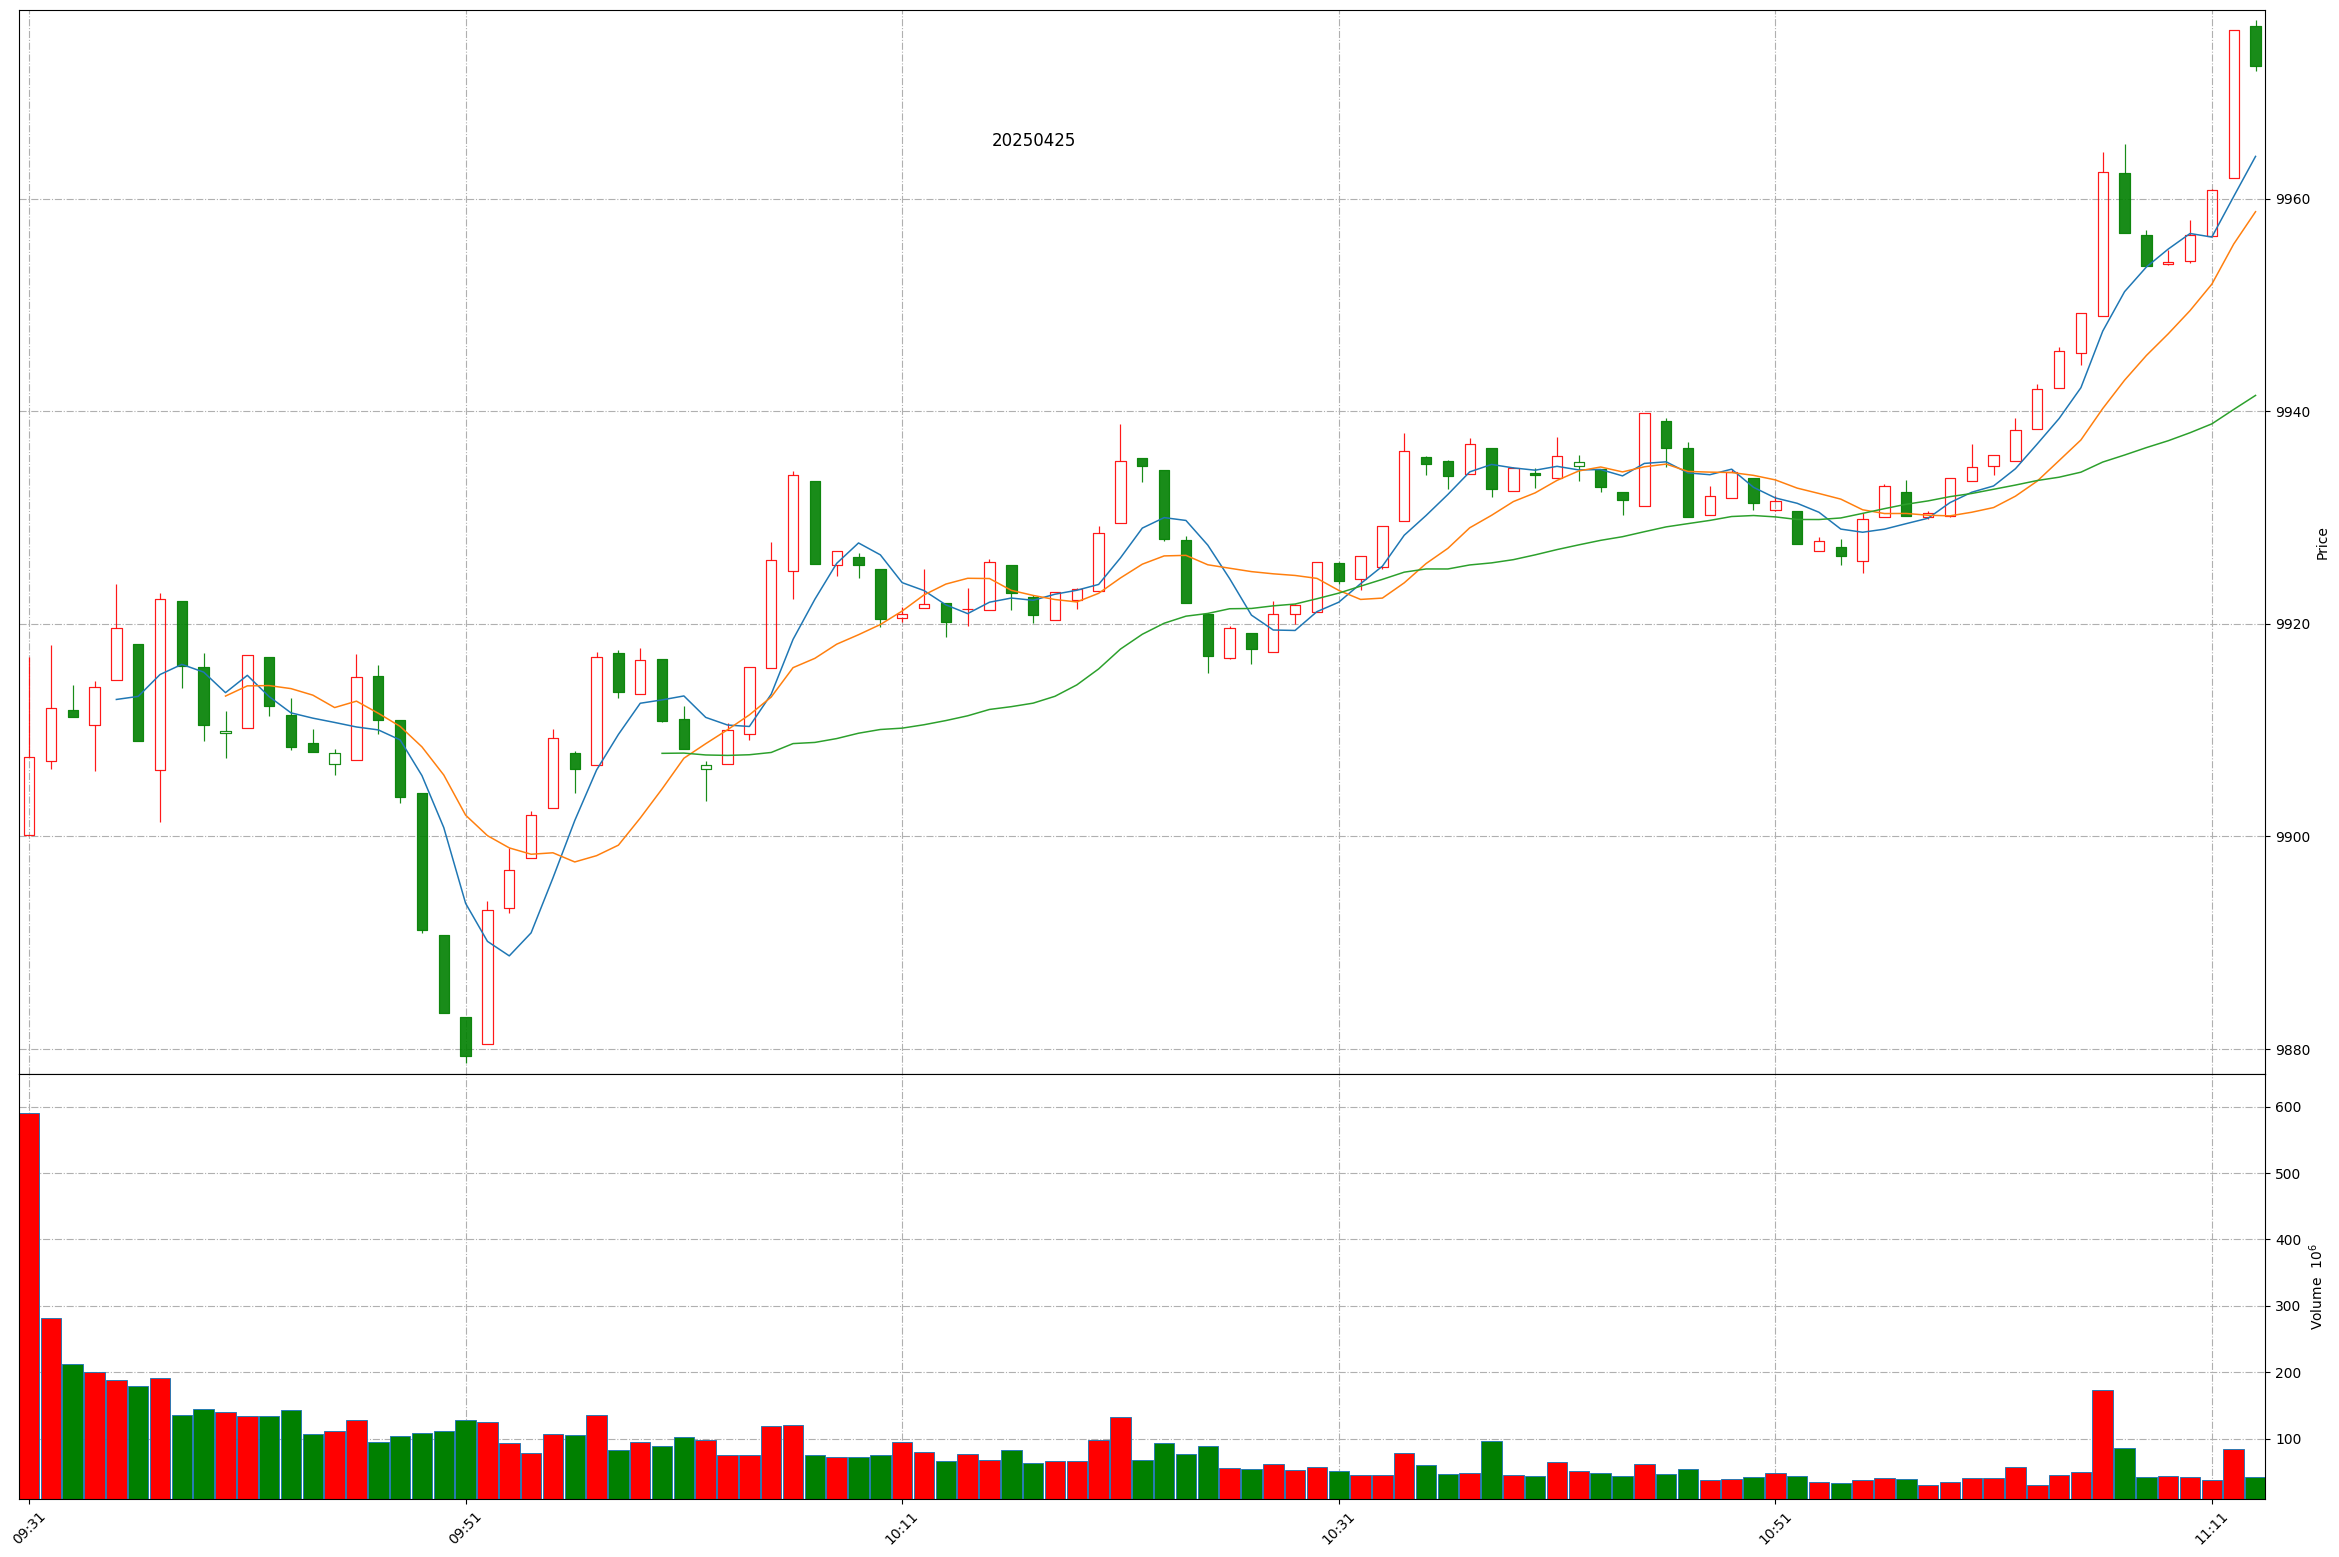
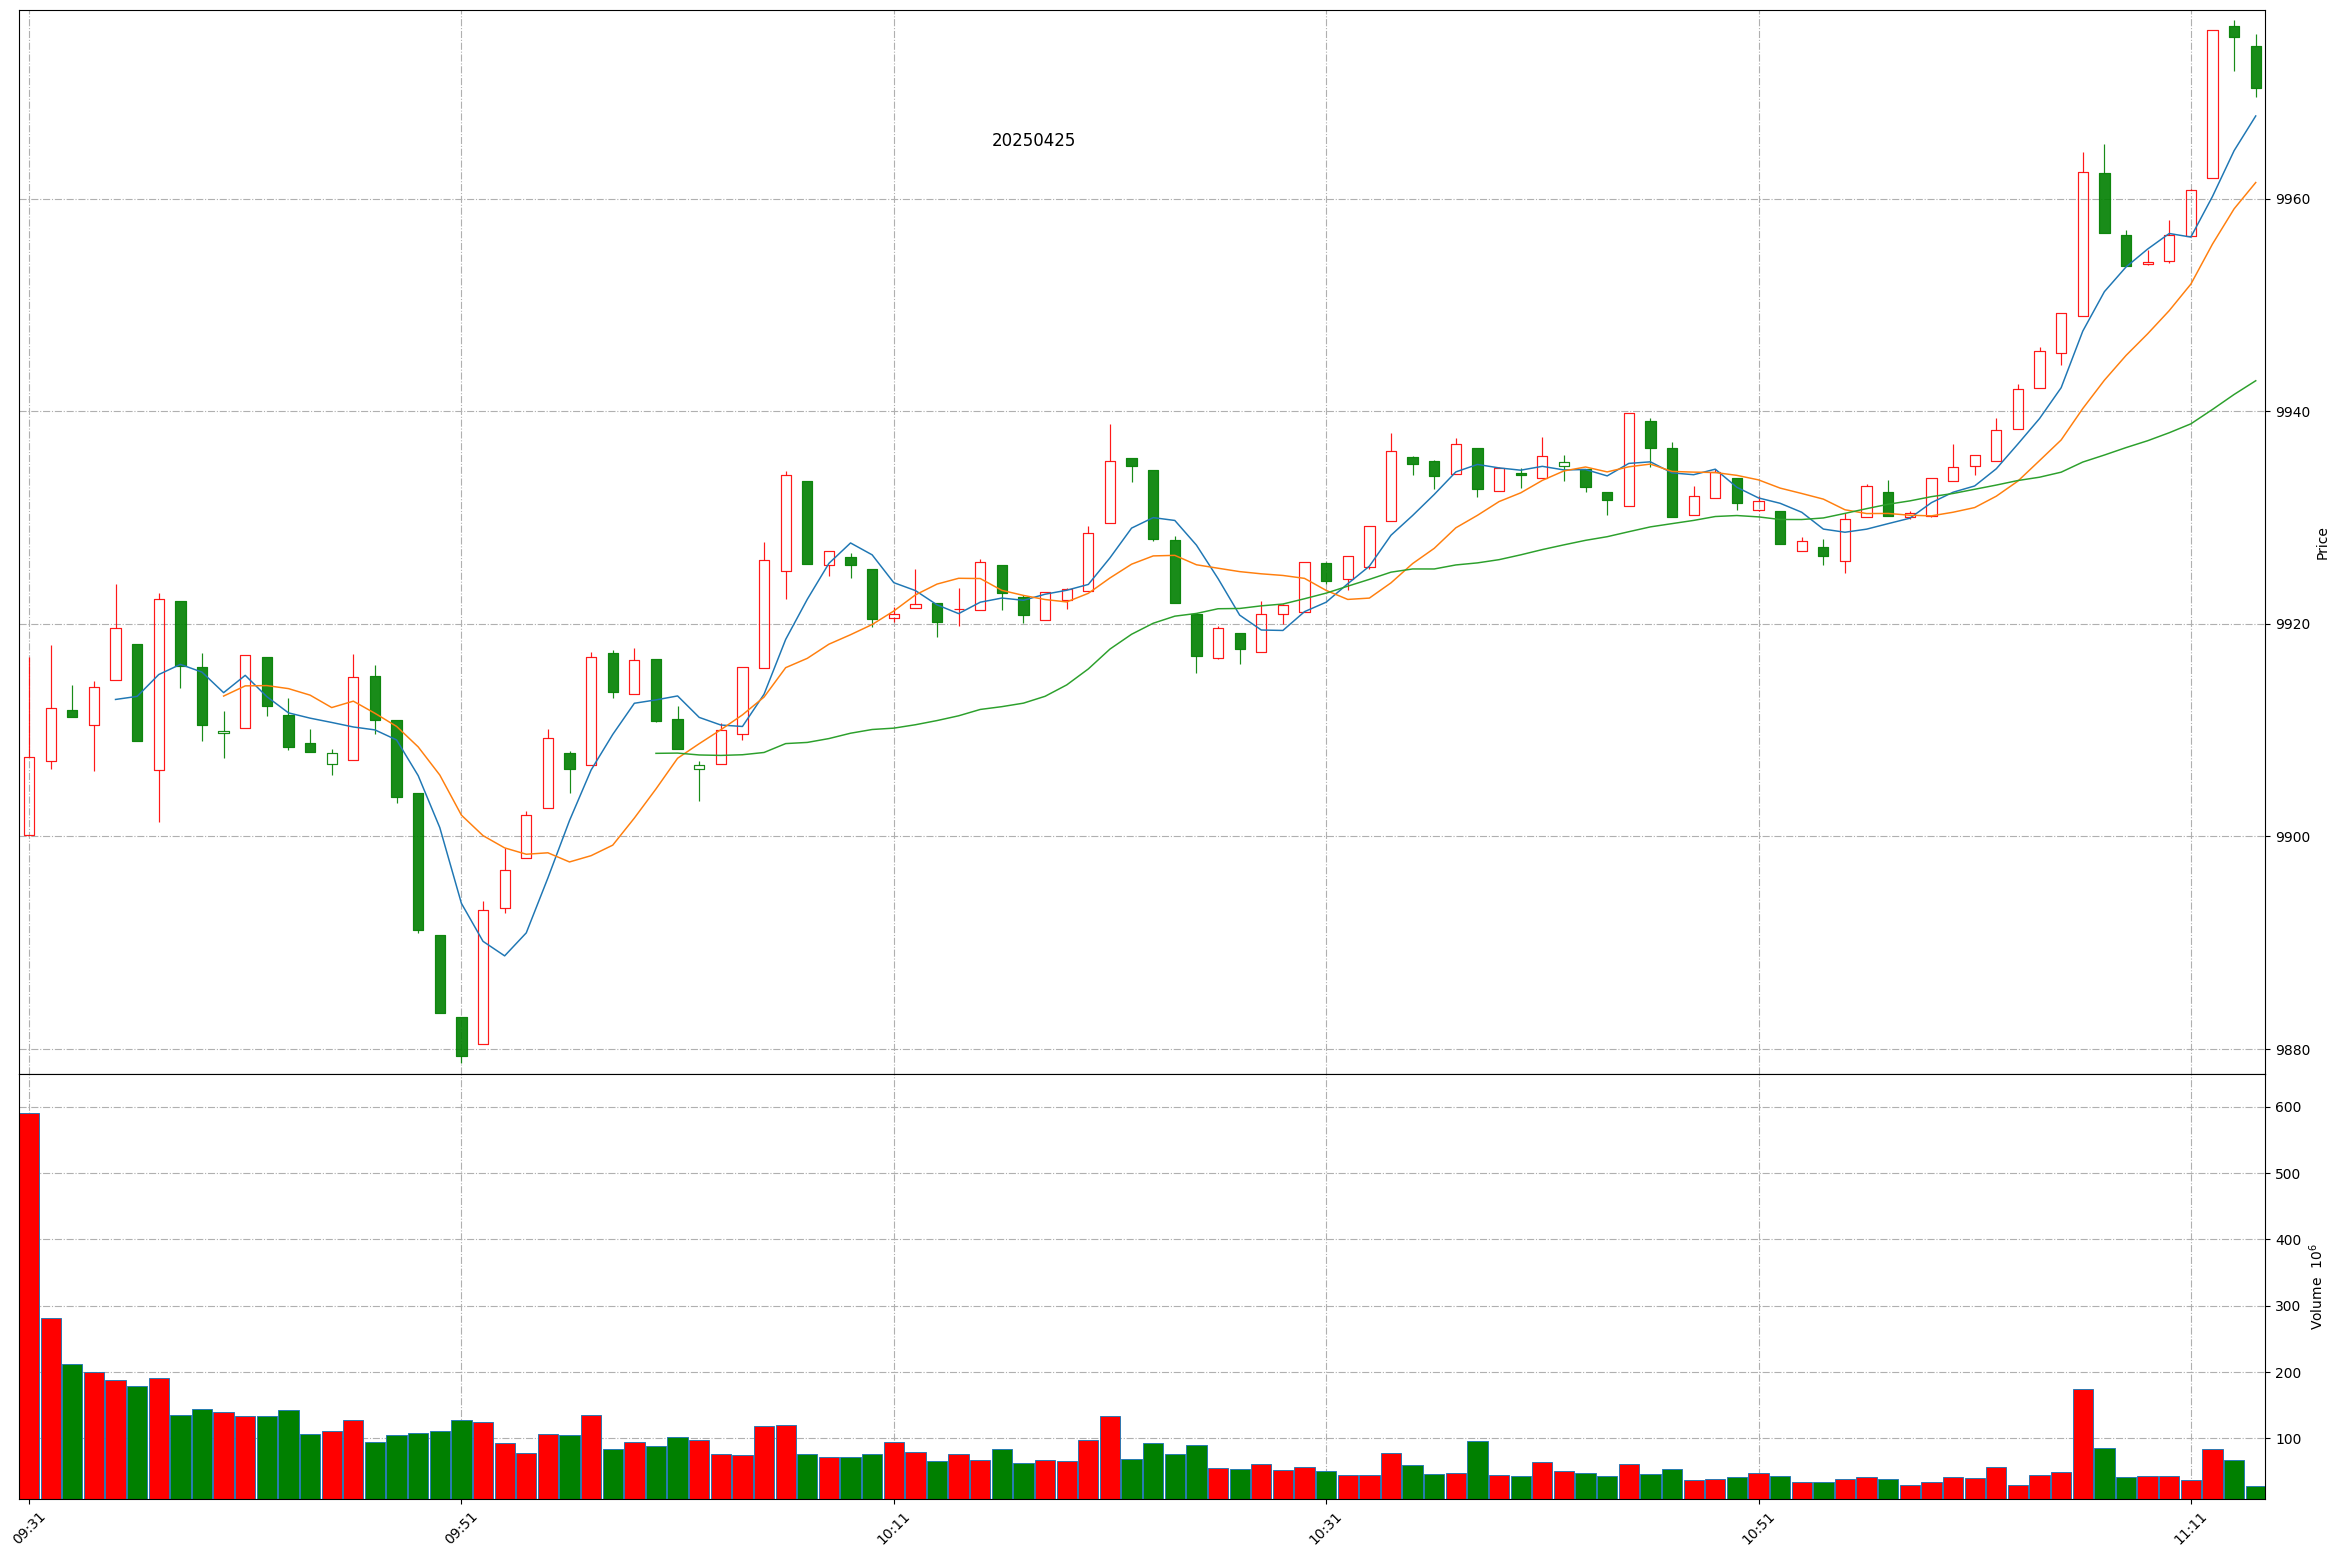
Github action update at 2025-04-25 11:13:49.

diff --git a/README.md b/README.md
@@ -1,11 +1,11 @@
 
 # Daily-A-share-market-quotes 每日 A 股指数（5min 更新）- 20250425
 
-### 上证指数 20250425 11:12
+### 上证指数 20250425 11:13
 ![](./fig/2025/4/20250425-sh000001.png)
 
-### 深证成指 20250425 11:12
+### 深证成指 20250425 11:13
 ![](./fig/2025/4/20250425-sz399001.png)
 
-### 北证50 20250425 11:12
+### 北证50 20250425 11:13
 ![](./fig/2025/4/20250425-bj899050.png)
